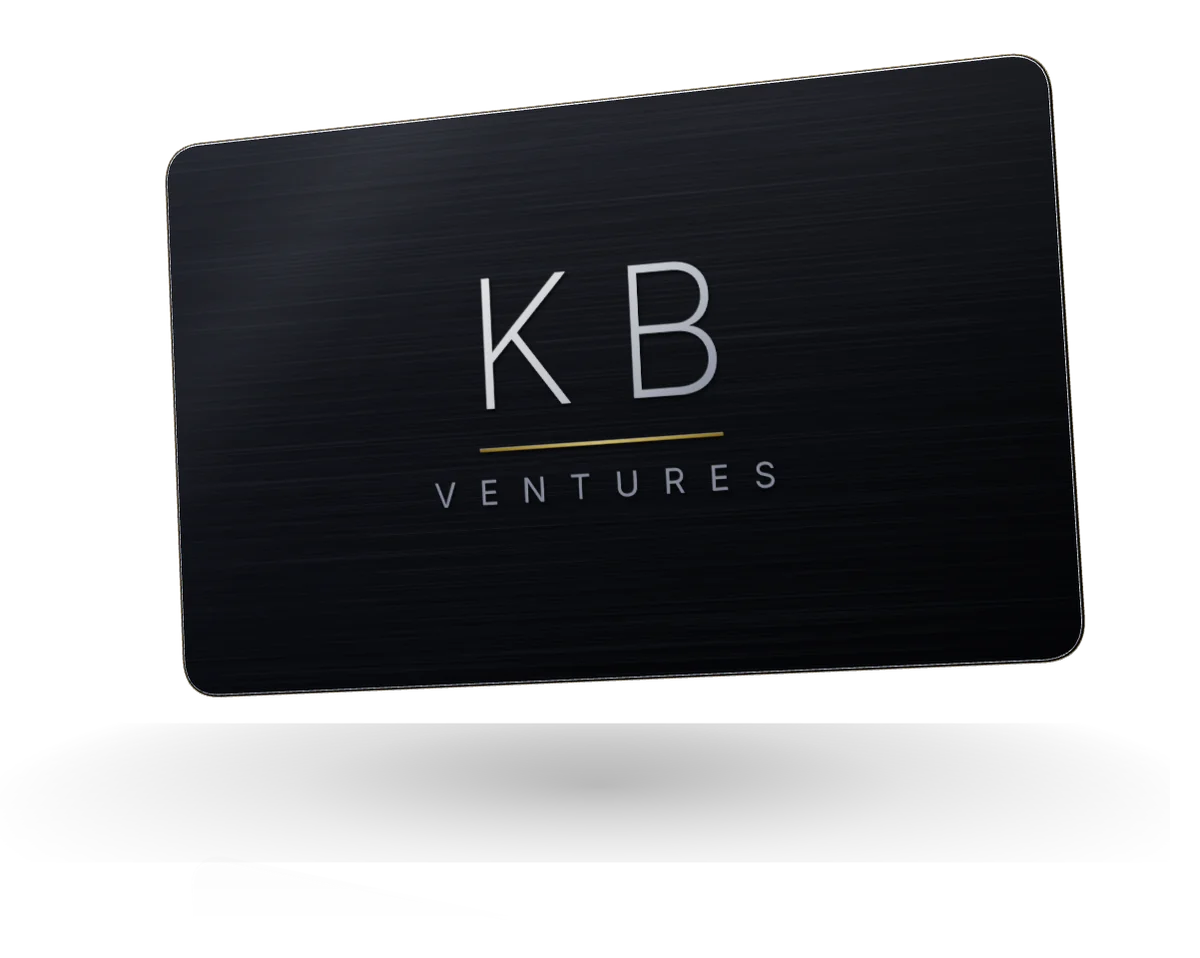
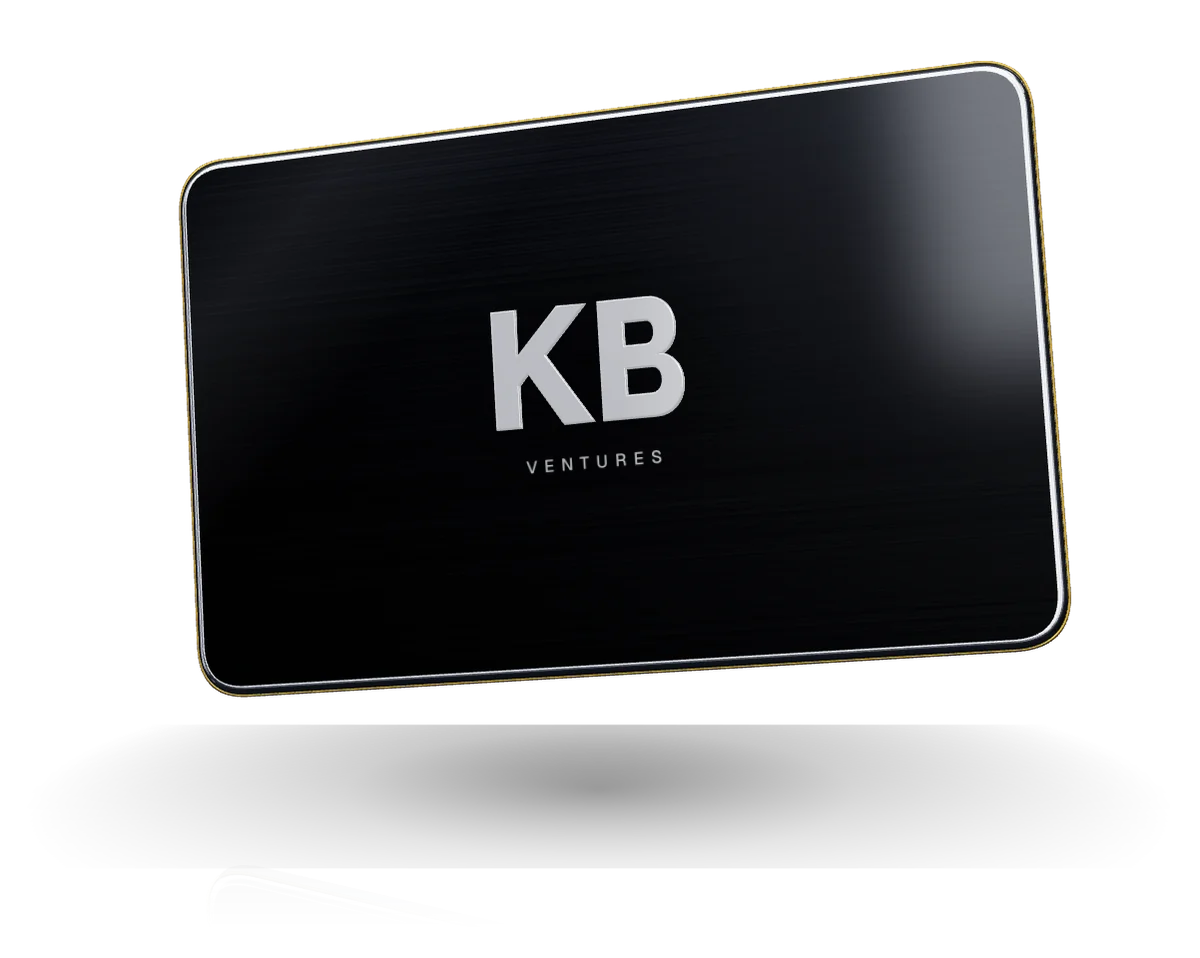
kbventures-site: restore the 1:13 pm dark glass hero card (from dcec837) with a brighter KB, new matching still
Claude-Session: https://claude.ai/code/session_01BYVfkD9LZUq4PJnMCyeNm3

Changed region(s): [[0.1233, 0.0605, 0.925, 0.7265], [0.4008, 0.7871, 0.5858, 0.8476]]

diff --git a/kbventures-site/scene.js b/kbventures-site/scene.js
@@ -1,18 +1,14 @@
-// KB Ventures hero object: a thin metal membership card in brushed obsidian/graphite, with a hairline polished-silver
-// edge, a very fine gold line around it and the KB Ventures logo (img/kb-wordmark.svg, unchanged) etched into the
-// centre of the face with a soft inner shadow. Not a payment card: nothing else is on the face. Lit by one large
-// soft box above-left and a gentle rim, at low exposure, so the edge catches the light on one side only and the face
-// carries a soft clearcoat sheen instead of hard highlights. It floats with a slow, small drift, leans a few degrees
-// toward the pointer or the phone's tilt, and a wide, faint reflection crosses the face now and then. A soft contact
-// shadow and a very faint mirror image sit beneath it. Three.js r160.
+// KB Ventures hero object: a thin card of deep black glass on a brushed-metal core, with a slim bevelled metal edge,
+// one fine brushed-gold line around the outer bevel and a raised, polished-metal KB mark. Lit by a small studio
+// (three bright light strips baked into the environment map) so the glass and bevels carry real specular highlights.
+// It floats in perspective with a slow drift, leans toward the pointer or the phone's tilt, and a wide soft reflection
+// sweeps across the face every few seconds. A contact shadow and a faint mirror image sit beneath it; the canvas fades
+// out at the bottom with a CSS mask so the mirror image dissolves into the page. Three.js r160.
 import * as THREE from 'three';
 
-const W = 3.2, H = 2.02, D = 0.028;  // a real card's proportions (85.6 x 54 mm), very thin
-const R = W * 0.045;                 // corner radius: 4.5% of the width
-const BEVEL = 0.009;                 // hairline polished edge (about 1 to 2px at the hero's size)
-const LOGO = new URL('./img/kb-wordmark.svg', import.meta.url);
-// the logo file draws its artwork inside a 360 x 120 canvas at x 114-246, y 21-110
-const ART = { x: 114, y: 21, w: 132, h: 89 };
+const W = 3.2, H = 2.02, D = 0.05;   // a card's proportions, thin
+const R = W * 0.06;                  // corner radius: 6% of the width
+const BEVEL = 0.034;                 // slim bevel that catches the light
 
 function roundedShape(w, h, r) {
   const s = new THREE.Shape(), x = -w / 2, y = -h / 2;
@@ -29,179 +25,163 @@ function canvasTexture(w, h, draw, srgb = true) {
   if (srgb) t.colorSpace = THREE.SRGBColorSpace;
   return t;
 }
-/** A seeded random so the grain (and so the still image) is the same on every load. */
+/** A seeded random so the brushed texture (and so the still image) is the same on every load. */
 function rand(seed) { return () => { seed = (seed * 16807) % 2147483647; return seed / 2147483647; }; }
 
-/** The studio: a dark room with one large soft box above-left, a gentle rim behind on the right and a faint floor bounce. */
+/** The studio: a dark room with three bright strips (top, left, back-right) and a faint floor bounce. */
 function studioEnvironment(renderer) {
   const room = new THREE.Scene();
-  room.background = new THREE.Color(0x020304);
-  const panel = (w, h, intensity, pos, rot, tint = 0xffffff) => {
+  room.background = new THREE.Color(0x030406);
+  const strip = (w, h, intensity, pos, rot, tint = 0xffffff) => {
     const m = new THREE.Mesh(new THREE.PlaneGeometry(w, h), new THREE.MeshBasicMaterial({ color: new THREE.Color(tint).multiplyScalar(intensity), side: THREE.DoubleSide }));
     m.position.set(...pos); m.rotation.set(...rot); room.add(m);
   };
-  panel(10, 5, 3.2, [-4, 8, 5], [-1.0, -0.35, 0], 0xf1f3f8);           // the large soft box overhead-left: the edge's highlight
-  panel(9, 6, 1.7, [-5, 7, 7], [-0.75, -0.45, 0], 0xeef1f7);          // its softer front half: the face's sheen, lighter top-left
-  panel(1.4, 8, 0.9, [7, 2, -4], [0, -Math.PI / 3.2, 0], 0xc9d3ea);     // a gentle rim behind on the right
-  panel(18, 18, 0.035, [0, -6, 0], [-Math.PI / 2, 0, 0], 0x8a93a8);     // floor bounce, so the dark side is not dead black
+  strip(14, 1.4, 9, [0, 6, 3], [Math.PI / 2.4, 0, 0]);                // long strip overhead, toward the viewer: the top-edge highlight
+  strip(1.2, 9, 5, [-7, 1, 2], [0, Math.PI / 2.6, 0], 0xdfe7ff);      // tall strip on the left, slightly cool
+  strip(1.0, 7, 3.2, [6, 2, -5], [0, -Math.PI / 4, 0], 0xcdd8f5);     // narrow strip behind on the right: the rim
+  strip(18, 18, 0.06, [0, -6, 0], [-Math.PI / 2, 0, 0], 0x8a93a8);    // a faint floor bounce, so the dark side is not dead black
+  strip(12, 7, 3.4, [0, 8.5, 11], [-0.62, 0, 0], 0xe8ecf6);         // a wide soft panel above and behind the viewer: lights the raised mark, gives the glass a faint sheen
   const pmrem = new THREE.PMREMGenerator(renderer);
-  const tex = pmrem.fromScene(room, 0.04).texture;                     // blurred a little more: soft reflections
+  const tex = pmrem.fromScene(room, 0.02).texture;
   pmrem.dispose();
   room.traverse((o) => { if (o.geometry) o.geometry.dispose(); if (o.material) o.material.dispose(); });
   return tex;
 }
 
-/** The logo as an image. Its <svg> has no width or height, so they are added (some browsers won't draw it otherwise). */
-async function loadLogo() {
-  const svg = await (await fetch(LOGO)).text();
-  const sized = svg.replace('<svg ', '<svg width="1080" height="360" ');
-  const url = URL.createObjectURL(new Blob([sized], { type: 'image/svg+xml' }));
-  try {
-    const img = new Image();
-    img.src = url;
-    await img.decode();
-    return img;
-  } finally { URL.revokeObjectURL(url); }
+/** The KB letters as shapes (so they can be extruded and bevelled like pressed metal). Units match the card. */
+function kbShapes() {
+  const k = new THREE.Shape();
+  [[0, 0], [0.085, 0], [0.085, 0.15], [0.125, 0.195], [0.252, 0], [0.358, 0], [0.188, 0.252], [0.346, 0.42], [0.246, 0.42], [0.085, 0.25], [0.085, 0.42], [0, 0.42]]
+    .forEach(([x, y], i) => (i ? k.lineTo(x, y) : k.moveTo(x, y)));
+  const b = new THREE.Shape(), ox = 0.4;
+  b.moveTo(ox, 0); b.lineTo(ox + 0.19, 0);
+  b.bezierCurveTo(ox + 0.325, 0, ox + 0.325, 0.212, ox + 0.205, 0.216);
+  b.bezierCurveTo(ox + 0.3, 0.228, ox + 0.3, 0.42, ox + 0.18, 0.42);
+  b.lineTo(ox, 0.42); b.lineTo(ox, 0);
+  const lower = new THREE.Path(); lower.moveTo(ox + 0.085, 0.075); lower.lineTo(ox + 0.18, 0.075); lower.bezierCurveTo(ox + 0.238, 0.075, ox + 0.238, 0.178, ox + 0.18, 0.178); lower.lineTo(ox + 0.085, 0.178); lower.lineTo(ox + 0.085, 0.075);
+  const upper = new THREE.Path(); upper.moveTo(ox + 0.085, 0.252); upper.lineTo(ox + 0.168, 0.252); upper.bezierCurveTo(ox + 0.214, 0.252, ox + 0.214, 0.345, ox + 0.168, 0.345); upper.lineTo(ox + 0.085, 0.345); upper.lineTo(ox + 0.085, 0.252);
+  b.holes.push(lower, upper);
+  return [k, b];
 }
 
-/** The logo set into the glass: a soft shadow below-right, a faint lit lip above-left, then the logo itself. */
-function logoTexture(img) {
-  const s = 7.6, pad = 40;                                  // artwork about 1000px wide, with room for the shadow
-  const w = Math.round(ART.w * s) + pad * 2, h = Math.round(ART.h * s) + pad * 2;
-  const art = document.createElement('canvas'); art.width = w; art.height = h;
-  const a = art.getContext('2d');
-  a.drawImage(img, pad - ART.x * s, pad - ART.y * s, 360 * s, 120 * s);
-  const silhouette = (color) => {
-    const c = document.createElement('canvas'); c.width = w; c.height = h;
-    const g = c.getContext('2d'); g.drawImage(art, 0, 0); g.globalCompositeOperation = 'source-in'; g.fillStyle = color; g.fillRect(0, 0, w, h);
-    return c;
-  };
-  return canvasTexture(w, h, (g) => {
-    g.filter = 'blur(6px)'; g.globalAlpha = 0.85; g.drawImage(silhouette('#000'), 4, 7);          // pressed-in shadow
-    g.filter = 'none'; g.globalAlpha = 0.22; g.drawImage(silhouette('#ffffff'), -1.5, -2);        // a faint lit lip
-    g.globalAlpha = 1; g.drawImage(art, 0, 0);
-  });
-}
-
-export async function initScene(canvas, { lowEnd = false, onLost = () => {} } = {}) {
-  const logoImg = await loadLogo();
+export function initScene(canvas, { lowEnd = false, onLost = () => {} } = {}) {
   const renderer = new THREE.WebGLRenderer({ canvas, antialias: true, alpha: true, powerPreference: 'high-performance' });
   renderer.setPixelRatio(Math.min(window.devicePixelRatio || 1, lowEnd ? 1.5 : 2)); // capped at 2
   renderer.outputColorSpace = THREE.SRGBColorSpace;
   renderer.toneMapping = THREE.ACESFilmicToneMapping;
-  renderer.toneMappingExposure = 0.9;                       // low overall exposure: no bloom, no glow
+  renderer.toneMappingExposure = 1.0;
 
   const scene = new THREE.Scene();
   const env = studioEnvironment(renderer);
   scene.environment = env;
 
   const camera = new THREE.PerspectiveCamera(24, 1, 0.1, 60);
-  const key = new THREE.DirectionalLight(0xf4f6ff, 0.6); key.position.set(-3, 5, 5); scene.add(key);
+  const key = new THREE.DirectionalLight(0xf4f6ff, 1.4); key.position.set(2, 6, 5); scene.add(key);
 
   const card = new THREE.Group();
   scene.add(card);
   const rnd = rand(11);
 
-  // Face: obsidian-to-graphite brushed metal. A soft gradient from graphite (#1A1C23) at the top-left to obsidian
-  // (#0D0E12) at the bottom-right, and a fine horizontal brushed grain that drives the roughness and a faint relief.
-  const face = canvasTexture(2048, 1292, (g, w, h) => {
-    const grd = g.createLinearGradient(0, 0, w, h);
-    grd.addColorStop(0, '#1a1c23'); grd.addColorStop(0.55, '#131419'); grd.addColorStop(1, '#0d0e12');
+  // Face texture: deep black glass with a subtle vertical gradient over fine horizontal brushing
+  const face = canvasTexture(1024, 646, (g, w, h) => {
+    const grd = g.createLinearGradient(0, 0, 0, h);
+    grd.addColorStop(0, '#15181f'); grd.addColorStop(0.55, '#0a0b10'); grd.addColorStop(1, '#050609');
     g.fillStyle = grd; g.fillRect(0, 0, w, h);
-    // the brushing, drawn into the colour too: thin horizontal strokes a shade lighter or darker, of random lengths
-    for (let k = 0; k < 7000; k++) {
-      const y = rnd() * h, x = rnd() * w - w * 0.2, len = w * (0.08 + rnd() * 0.5);
-      g.fillStyle = rnd() < 0.5 ? `rgba(160,166,182,${0.015 + rnd() * 0.022})` : `rgba(0,0,0,${0.035 + rnd() * 0.04})`;
-      g.fillRect(x, y, len, 1 + (rnd() < 0.15 ? 1 : 0));
-    }
+    g.globalAlpha = 0.05;
+    for (let y = 0; y < h; y++) { const v = 90 + Math.floor(rnd() * 120); g.fillStyle = `rgb(${v},${v},${v + 8})`; g.fillRect(0, y, w, 1); }
   });
-  // brushed grain: random per-pixel noise, then stretched sideways so it reads as fine horizontal brush strokes
-  const brushed = canvasTexture(2048, 1024, (g, w, h) => {
-    const src = document.createElement('canvas'); src.width = 128; src.height = h;
-    const sg = src.getContext('2d'), img = sg.createImageData(128, h), d = img.data;
-    for (let y = 0; y < h; y++) {
-      const row = (rnd() - 0.5) * 34;                    // each strip of metal a little different
-      for (let x = 0; x < 128; x++) { const v = 112 + row + (rnd() - 0.5) * 26, k = (y * 128 + x) * 4; d[k] = d[k + 1] = d[k + 2] = v; d[k + 3] = 255; }
-    }
-    sg.putImageData(img, 0, 0);
-    g.imageSmoothingEnabled = true;
-    g.drawImage(src, 0, 0, w, h);                       // 16x wider: long, soft horizontal strokes
+  const brushRough = canvasTexture(1024, 646, (g, w, h) => {
+    for (let y = 0; y < h; y++) { const v = 150 + Math.floor(rnd() * 70); g.fillStyle = `rgb(${v},${v},${v})`; g.fillRect(0, y, w, 1); }
   }, false);
-  for (const t of [face, brushed]) { t.repeat.set(1 / W, 1 / H); t.offset.set(0.5, 0.5); t.anisotropy = Math.min(8, renderer.capabilities.getMaxAnisotropy()); }
+  for (const t of [face, brushRough]) { t.repeat.set(1 / W, 1 / H); t.offset.set(0.5, 0.5); t.anisotropy = renderer.capabilities.getMaxAnisotropy(); }
 
-  // The card body. ExtrudeGeometry gives two material groups: 0 = the flat front and back, 1 = the hairline edge.
+  // The card body. ExtrudeGeometry gives two material groups: 0 = the flat front and back, 1 = the bevel and sides.
   const bodyGeo = new THREE.ExtrudeGeometry(roundedShape(W - BEVEL * 2, H - BEVEL * 2, R - BEVEL), {
-    depth: D, bevelEnabled: true, bevelThickness: BEVEL * 0.7, bevelSize: BEVEL, bevelSegments: 5, curveSegments: 28,
+    depth: D, bevelEnabled: true, bevelThickness: BEVEL * 0.8, bevelSize: BEVEL, bevelSegments: 10, curveSegments: 24,
   });
   bodyGeo.translate(0, 0, -D / 2);
   const glass = new THREE.MeshPhysicalMaterial({
-    map: face, color: 0xffffff, metalness: 0.9, roughness: 0.9, roughnessMap: brushed,   // about 0.35 to 0.45 after the grain
-    emissive: 0xffffff, emissiveMap: face, emissiveIntensity: 0.85,                      // the graphite and its brushing show through
-    clearcoat: 0.45, clearcoatRoughness: 0.22, envMapIntensity: 0.9,                     // a soft sheen, not a plastic gloss
+    map: face, roughnessMap: brushRough, color: 0xffffff, metalness: 0.55, roughness: 0.42,
+    clearcoat: 1, clearcoatRoughness: 0.025, envMapIntensity: 1.0,
   });
   const edge = new THREE.MeshPhysicalMaterial({
-    color: 0xb9bec7, metalness: 1, roughness: 0.18, anisotropy: 0.5, envMapIntensity: 1.3,   // polished: lit along the top-left, dark below
+    color: 0xc3c8d1, metalness: 1, roughness: 0.2, anisotropy: 0.65, clearcoat: 1, clearcoatRoughness: 0.06, envMapIntensity: 1.05,
   });
   card.add(new THREE.Mesh(bodyGeo, [glass, edge]));
 
-  // Gold, only as a very fine hairline around the edge (part see-through)
-  const pts = roundedShape(W + 0.001, H + 0.001, R).getSpacedPoints(360).map((p) => new THREE.Vector3(p.x, p.y, 0));
+  // One fine brushed-gold line around the outer bevel, at the card's waist
+  const pts = roundedShape(W + 0.002, H + 0.002, R).getSpacedPoints(320).map((p) => new THREE.Vector3(p.x, p.y, 0));
   const goldLine = new THREE.Mesh(
-    new THREE.TubeGeometry(new THREE.CatmullRomCurve3(pts, true), 720, 0.0026, 5, true),
-    new THREE.MeshPhysicalMaterial({ color: 0xd4af37, metalness: 1, roughness: 0.4, envMapIntensity: 0.6, transparent: true, opacity: 0.55, depthWrite: false }),
+    new THREE.TubeGeometry(new THREE.CatmullRomCurve3(pts, true), 640, 0.007, 6, true),
+    new THREE.MeshPhysicalMaterial({ color: 0xd4af37, metalness: 1, roughness: 0.3, anisotropy: 0.5, clearcoat: 0.5, envMapIntensity: 0.9 }),
   );
-  goldLine.position.z = D / 2;
+  goldLine.position.z = D / 2; // where the flat side turns into the front bevel
   card.add(goldLine);
-  const front = D / 2 + BEVEL * 0.7; // z of the face
+  const front = D / 2 + BEVEL * 0.8; // z of the glass face
 
-  // The logo, centred and etched into the metal: thin silver KB, the gold rule and VENTURES, exactly as in kb-wordmark.svg.
-  // The KB takes about 28% of the card's width (it is 63.5% of the logo's artwork).
-  const logoTex = logoTexture(logoImg);
-  logoTex.anisotropy = Math.min(8, renderer.capabilities.getMaxAnisotropy());
-  const lw = (W * 0.28) / 0.635, lh = lw * logoTex.image.height / logoTex.image.width;
-  const logo = new THREE.Mesh(new THREE.PlaneGeometry(lw, lh), new THREE.MeshPhysicalMaterial({
-    map: logoTex, transparent: true, depthWrite: false, metalness: 0.7, roughness: 0.3, envMapIntensity: 1,
-    emissive: 0xffffff, emissiveMap: logoTex, emissiveIntensity: 0.5,   // brushed platinum that reads clearly, never a flat white block
+  // Raised KB mark in polished metal, with a soft shadow pressed into the glass below it
+  const markGroup = new THREE.Group();
+  const markGeo = new THREE.ExtrudeGeometry(kbShapes(), { depth: 0.012, bevelEnabled: true, bevelThickness: 0.008, bevelSize: 0.006, bevelSegments: 4, curveSegments: 18 });
+  markGeo.computeBoundingBox();
+  const bb = markGeo.boundingBox;
+  markGeo.translate(-(bb.max.x + bb.min.x) / 2, -(bb.max.y + bb.min.y) / 2, 0);
+  // (a soft self-glow and a stronger reflection keep the polished KB reading bright white/silver, not mid-grey)
+  const polished = new THREE.MeshPhysicalMaterial({ color: 0xeef0f4, metalness: 1, roughness: 0.2, clearcoat: 0.6, clearcoatRoughness: 0.05, envMapIntensity: 1.5, emissive: 0xdfe2e9, emissiveIntensity: 0.42 });
+  const markMesh = new THREE.Mesh(markGeo, polished);
+  markMesh.position.z = front + 0.001;
+  const markShadow = new THREE.Mesh(new THREE.PlaneGeometry(1.25, 0.82), new THREE.MeshBasicMaterial({
+    map: canvasTexture(256, 168, (g, w, h) => { const r = g.createRadialGradient(w / 2, h / 2, 6, w / 2, h / 2, w / 2); r.addColorStop(0, 'rgba(0,0,0,.55)'); r.addColorStop(1, 'rgba(0,0,0,0)'); g.fillStyle = r; g.fillRect(0, 0, w, h); }),
+    transparent: true, depthWrite: false, toneMapped: false,
   }));
-  logo.position.set(0, 0.02, front + 0.0008);
-  card.add(logo);
+  markShadow.position.set(0.012, -0.03, front + 0.0005);
+  // VENTURES in metallic foil, set below the letters
+  const foil = new THREE.Mesh(new THREE.PlaneGeometry(1.4, 0.14), new THREE.MeshPhysicalMaterial({
+    color: 0xe4e6ec, metalness: 1, roughness: 0.22, transparent: true, depthWrite: false, envMapIntensity: 1.4, emissive: 0xc4c8d1, emissiveIntensity: 0.5,
+    alphaMap: canvasTexture(1400, 140, (g, w, h) => { g.fillStyle = '#000'; g.fillRect(0, 0, w, h); g.fillStyle = '#fff'; g.textAlign = 'center'; g.textBaseline = 'middle'; g.font = '500 62px Geist, "Helvetica Neue", Arial, sans-serif'; if ('letterSpacing' in g) g.letterSpacing = '26px'; g.fillText('VENTURES', w / 2 + 13, h / 2 + 2); }, false),
+  }));
+  foil.position.set(0, -0.36, front + 0.001);
+  markGroup.add(markShadow, markMesh, foil);
+  markGroup.position.set(-0.02, 0.1, 0);
+  card.add(markGroup);
 
-  // A wide, faint clearcoat reflection that crosses the face slowly now and then
-  const sweepTex = canvasTexture(2048, 32, (g, w) => {
+  // A wide soft reflection that sweeps across the face
+  const sweepTex = canvasTexture(1024, 32, (g, w) => {
     const grd = g.createLinearGradient(0, 0, w, 0);
-    const stops = [[0, 0], [0.3, 0], [0.4, 0.12], [0.47, 0.5], [0.5, 0.62], [0.53, 0.5], [0.6, 0.12], [0.7, 0], [1, 0]];
-    for (const [o, a] of stops) grd.addColorStop(o, `rgba(232,236,246,${a})`);
+    grd.addColorStop(0, 'rgba(255,255,255,0)'); grd.addColorStop(0.34, 'rgba(230,236,255,0)');
+    grd.addColorStop(0.5, 'rgba(230,236,255,1)'); grd.addColorStop(0.66, 'rgba(230,236,255,0)'); grd.addColorStop(1, 'rgba(255,255,255,0)');
     g.fillStyle = grd; g.fillRect(0, 0, w, 32);
   });
-  sweepTex.center.set(0.5, 0.5); sweepTex.rotation = -0.55; sweepTex.repeat.set(0.8, 1);
+  sweepTex.center.set(0.5, 0.5); sweepTex.rotation = -0.62; sweepTex.repeat.set(0.7, 1);
   const sweepGeo = new THREE.ShapeGeometry(roundedShape(W - BEVEL * 2, H - BEVEL * 2, R - BEVEL), 24);
   { const p = sweepGeo.attributes.position, uv = sweepGeo.attributes.uv; for (let i = 0; i < p.count; i++) uv.setXY(i, p.getX(i) / W + 0.5, p.getY(i) / H + 0.5); }
-  const sweep = new THREE.Mesh(sweepGeo, new THREE.MeshBasicMaterial({ map: sweepTex, transparent: true, opacity: 0.08, depthWrite: false, blending: THREE.AdditiveBlending, toneMapped: false }));
-  sweep.position.z = front + 0.0012;
+  const sweep = new THREE.Mesh(sweepGeo, new THREE.MeshBasicMaterial({ map: sweepTex, transparent: true, opacity: 0.085, depthWrite: false, blending: THREE.AdditiveBlending, toneMapped: false }));
+  sweep.position.z = front + 0.0004;
   card.add(sweep);
 
-  // Beneath: a soft contact shadow and a very faint mirror image fading into the floor
-  const FLOOR = -1.45;
-  const shadow = new THREE.Mesh(new THREE.PlaneGeometry(4.4, 1.5), new THREE.MeshBasicMaterial({
-    map: canvasTexture(256, 128, (g, w, h) => { const r = g.createRadialGradient(w / 2, h / 2, 0, w / 2, h / 2, w / 2); r.addColorStop(0, 'rgba(0,0,0,.6)'); r.addColorStop(0.5, 'rgba(0,0,0,.22)'); r.addColorStop(1, 'rgba(0,0,0,0)'); g.fillStyle = r; g.fillRect(0, 0, w, h); }),
+  // Beneath: a soft contact shadow, then a faint mirror image of the card fading into the floor
+  const FLOOR = -1.5;
+  const shadow = new THREE.Mesh(new THREE.PlaneGeometry(4.2, 1.6), new THREE.MeshBasicMaterial({
+    map: canvasTexture(256, 128, (g, w, h) => { const r = g.createRadialGradient(w / 2, h / 2, 0, w / 2, h / 2, w / 2); r.addColorStop(0, 'rgba(0,0,0,.75)'); r.addColorStop(0.45, 'rgba(0,0,0,.3)'); r.addColorStop(1, 'rgba(0,0,0,0)'); g.fillStyle = r; g.fillRect(0, 0, w, h); }),
     transparent: true, depthWrite: false, toneMapped: false,
   }));
   shadow.rotation.x = -Math.PI / 2; shadow.position.y = FLOOR;
   scene.add(shadow);
   const mirror = card.clone(true);
   mirror.traverse((o) => { if (o.material) { o.material = Array.isArray(o.material) ? o.material.map((m) => fade(m)) : fade(o.material); } });
-  // very faint; the canvas itself also fades out at the bottom (CSS mask)
-  function fade(m) { const c = m.clone(); c.transparent = true; c.opacity = (m.opacity ?? 1) * 0.035; c.depthWrite = false; return c; }
+  // faint; the canvas itself fades out at the bottom (CSS mask)
+  function fade(m) { const c = m.clone(); c.transparent = true; c.opacity = (m.opacity ?? 1) * 0.09; c.depthWrite = false; return c; }
   scene.add(mirror);
 
-  // Rest pose: tilted about 14 degrees back and 15 degrees sideways (also the pose of img/hero-object.webp)
-  const REST = { x: -0.25, y: -0.26, z: 0.05 };
+  // Rest pose: tilted about 15 degrees back and 16 degrees sideways (also the pose of img/hero-object.webp)
+  const REST = { x: -0.27, y: -0.28, z: 0.06 };
+  const place = (o, s = 1) => { o.rotation.set(REST.x * s, REST.y, REST.z * s); };
+  place(card);
 
   function resize() {
     const w = canvas.clientWidth || 1, h = canvas.clientHeight || 1;
     renderer.setSize(w, h, false);
     camera.aspect = w / h;
-    const needW = 3.77, needH = 3.29, v = THREE.MathUtils.degToRad(camera.fov);
+    const needW = 3.9, needH = 3.4, v = THREE.MathUtils.degToRad(camera.fov);
     const dist = Math.max(needH / 2 / Math.tan(v / 2), needW / 2 / (Math.tan(v / 2) * camera.aspect));
     camera.position.set(0, dist * 0.16, dist); // a little above, looking slightly down
     camera.lookAt(0, -0.32, 0);
@@ -225,26 +205,19 @@ export async function initScene(canvas, { lowEnd = false, onLost = () => {} } = 
     card.position.y = lift; card.rotation.set(rx, ry, rz);
     // the mirror image hangs upside down below the floor
     mirror.position.y = 2 * FLOOR - lift; mirror.rotation.set(-rx, ry, -rz); mirror.scale.set(1, -1, 1);
-    shadow.material.opacity = 0.75 - lift * 1.5;
+    shadow.material.opacity = 0.9 - lift * 1.5;
   }
-  // the card tips back slightly as the page scrolls down
-  let scrollTilt = 0;
-  const onScrollTilt = () => { scrollTilt = Math.min(1, window.scrollY / Math.max(1, window.innerHeight)); };
-  window.addEventListener('scroll', onScrollTilt, { passive: true }); onScrollTilt();
-  // heavy and slow: small drift, a few degrees toward the pointer, eased over about a second and a half
-  let tilt = 0;
   function frame(dt) {
     t += dt;
-    const e = 1 - Math.exp(-dt * 1.6);
-    aim.x += (aim.tx - aim.x) * e; aim.y += (aim.ty - aim.y) * e; tilt += (scrollTilt - tilt) * e;
+    aim.x += (aim.tx - aim.x) * Math.min(1, dt * 1.8); aim.y += (aim.ty - aim.y) * Math.min(1, dt * 1.8);
     pose(
-      Math.sin(t * 0.32) * 0.022,
-      REST.x + Math.sin(t * 0.15 + 1) * 0.018 + aim.y * 0.045 - tilt * 0.12,
-      REST.y + Math.sin(t * 0.12) * 0.04 + aim.x * 0.07 + tilt * 0.06,
-      REST.z + Math.sin(t * 0.1) * 0.006,
+      Math.sin(t * 0.45) * 0.05,
+      REST.x + Math.sin(t * 0.21 + 1) * 0.035 + aim.y * 0.07,
+      REST.y + Math.sin(t * 0.17) * 0.09 + aim.x * 0.14,
+      REST.z + Math.sin(t * 0.13) * 0.01,
     );
-    // the reflection crosses the face every 12 seconds, taking about 5 of them
-    const c = (t % 12) / 5;
+    // the reflection crosses the face every 7 seconds, taking about 3.5 of them
+    const c = (t % 7) / 3.5;
     sweepTex.offset.x = c <= 1 ? 1.1 - c * 2.2 : -1.1;
     renderer.render(scene, camera);
   }
@@ -263,16 +236,16 @@ export async function initScene(canvas, { lowEnd = false, onLost = () => {} } = 
   raf = requestAnimationFrame(loop);
 
   return {
-    /** Draw the rest pose once, with the reflection part-way across (used to make the still image). */
+    /** Draw the rest pose once, with the reflection band part-way across (used to make the still image). */
     still(sweepAt = 0.35) { cancelAnimationFrame(raf); raf = 0; visible = false; pose(0, REST.x, REST.y, REST.z); sweepTex.offset.x = sweepAt; renderer.render(scene, camera); },
     dispose() {
       cancelAnimationFrame(raf); raf = 0; ro.disconnect(); io.disconnect();
-      window.removeEventListener('pointermove', onPointer); window.removeEventListener('deviceorientation', onTilt); window.removeEventListener('scroll', onScrollTilt);
+      window.removeEventListener('pointermove', onPointer); window.removeEventListener('deviceorientation', onTilt);
       document.removeEventListener('visibilitychange', onVis); canvas.removeEventListener('webglcontextlost', lost);
       const seen = new Set();
       scene.traverse((o) => {
         if (o.geometry && !seen.has(o.geometry)) { seen.add(o.geometry); o.geometry.dispose(); }
-        for (const m of [].concat(o.material || [])) { for (const k of ['map', 'roughnessMap', 'alphaMap', 'emissiveMap']) if (m[k] && !seen.has(m[k])) { seen.add(m[k]); m[k].dispose(); } m.dispose(); }
+        for (const m of [].concat(o.material || [])) { for (const k of ['map', 'roughnessMap', 'alphaMap']) if (m[k] && !seen.has(m[k])) { seen.add(m[k]); m[k].dispose(); } m.dispose(); }
       });
       env.dispose(); renderer.dispose();
     },

diff --git a/kbventures-site/index.html b/kbventures-site/index.html
@@ -58,7 +58,7 @@
       </div>
       <div class="hero-stage" id="stage">
         <div class="spotlight" aria-hidden="true"></div>
-        <img class="hero-still" src="img/hero-object.webp" width="1200" height="958" alt="A thin brushed black metal card with the KB Ventures logo etched in silver" fetchpriority="high" decoding="async">
+        <img class="hero-still" src="img/hero-object.webp" width="1200" height="958" alt="A thin black glass card with a fine gold edge, carrying the KB Ventures mark" fetchpriority="high" decoding="async">
         <canvas id="scene" aria-hidden="true"></canvas>
       </div>
     </div>

diff --git a/kbventures-site/tools/build-pages.py b/kbventures-site/tools/build-pages.py
@@ -247,7 +247,7 @@ home_body = f'''<main id="main">
       </div>
       <div class="hero-stage" id="stage">
         <div class="spotlight" aria-hidden="true"></div>
-        <img class="hero-still" src="img/hero-object.webp" width="1200" height="958" alt="A thin brushed black metal card with the KB Ventures logo etched in silver" fetchpriority="high" decoding="async">
+        <img class="hero-still" src="img/hero-object.webp" width="1200" height="958" alt="A thin black glass card with a fine gold edge, carrying the KB Ventures mark" fetchpriority="high" decoding="async">
         <canvas id="scene" aria-hidden="true"></canvas>
       </div>
     </div>

diff --git a/kbventures-site/CHANGES.md b/kbventures-site/CHANGES.md
@@ -1,4 +1,20 @@
-# Changes: a brushed black metal membership card (28 October 2026)
+# Changes: the 1:13 pm hero card is back (28 October 2026)
+
+- **Restored from commit dcec837** (11:49 am Melbourne time on 28 Oct, the card that was live at about 1:13 pm; the next card change, 1397f4a, came at 1:28 pm): `scene.js` and the still image. That is the slim dark glass card with a slim bevelled metal edge, one fine brushed-gold line, the studio lighting and environment map, the soft light in the upper right of the face, the raised polished KB and VENTURES under it, and the idle light sweep that crosses the face every few seconds on its own (it was never hover-only).
+- **Undone:** every later card version: the 7:47 pm silver card, the sleek hairline card, the 10:04 pm purple card with the chip, and the brushed metal membership card.
+- **One small change to the restored card:** in that exact version the KB rendered mid-grey and VENTURES was barely visible. Their two materials now have a soft self-glow and a stronger reflection, so the KB reads bright white/silver and VENTURES is readable. Nothing else about the card differs from dcec837.
+- **Still image:** `img/hero-object.webp` was re-rendered from the restored card (with the brighter mark) at full size, so the fallback matches.
+- **Hero background:** still clean: no grid, glow layer or sparkle dots, only the soft spotlight behind the card.
+- **Kept from round 2:** the taller hero, text, buttons, smaller card, all sections, pages, spacing and fade-ins. Reduced motion and the still-image fallback still work.
+- **Checked:**
+  - screenshots at 1440 (3D and still) and 390, side by side with the actual 1:13 pm site exported from dcec837;
+  - no console errors;
+  - the full test suite passed at 1440, 768 and 390;
+  - Lighthouse: desktop 100 / 100 / 100 / 100, mobile 95 / 100 / 100 / 100, layout shift 0.
+
+---
+
+# Earlier: a brushed black metal membership card (28 October 2026)
 
 The purple/blue gradient card with a chip is gone. The hero card is now a thin metal membership-style card in the site's own palette. It keeps the same size, position, tilt, clean dark background, still-image fallback and reduced-motion behaviour.
 

diff --git a/kbventures-site/brand.md b/kbventures-site/brand.md
@@ -52,4 +52,4 @@ Inspired by the *feel* of a premium dark product page (Revolut's Ultra plan page
 - **Round 2 (28 October 2026):** the same scale everywhere: the gap between two sections is 2 x `--section` (40px on phones, 48px from 720px, 60px from 1024px). Only the Our standard cards react to the pointer (a slight tilt and a soft light); business, step and form cards stay still. (The hero grid and glow were later removed.)
 - **Hero (28 October 2026):** the dark glass KB card, shown smaller so the headline has room, on the plain dark background with only the soft spotlight behind it. No grid lines, glow layers or sparkle dots.
 - **Hero card detail:** a hairline polished edge lit on one side only, a fine champagne line, matte black anodised metal under a gentle clearcoat with fine grain, and the logo itself (`kb-wordmark.svg`) set into the face with a soft pressed-in shadow. One large soft box, low exposure and no bloom. Motion is a few degrees, slow and eased, so it feels heavy.
-- **Hero card (final, 28 October 2026):** a thin metal membership card, not a payment card. Brushed obsidian/graphite (#0D0E12 to #1A1C23) with fine horizontal grain and a soft sheen, a hairline polished-silver edge lit on one side, gold (#D4AF37) only as a very fine hairline, and the real logo centred in silver (the KB about 28% of the card's width). No chip, no colours outside the palette.
+- **Hero card (28 October 2026, restored to the 1:13 pm version):** the slim dark glass card with a fine gold edge, soft light in the upper right, a gentle idle light sweep, and a raised bright white/silver KB with VENTURES under it, on the clean dark background.
